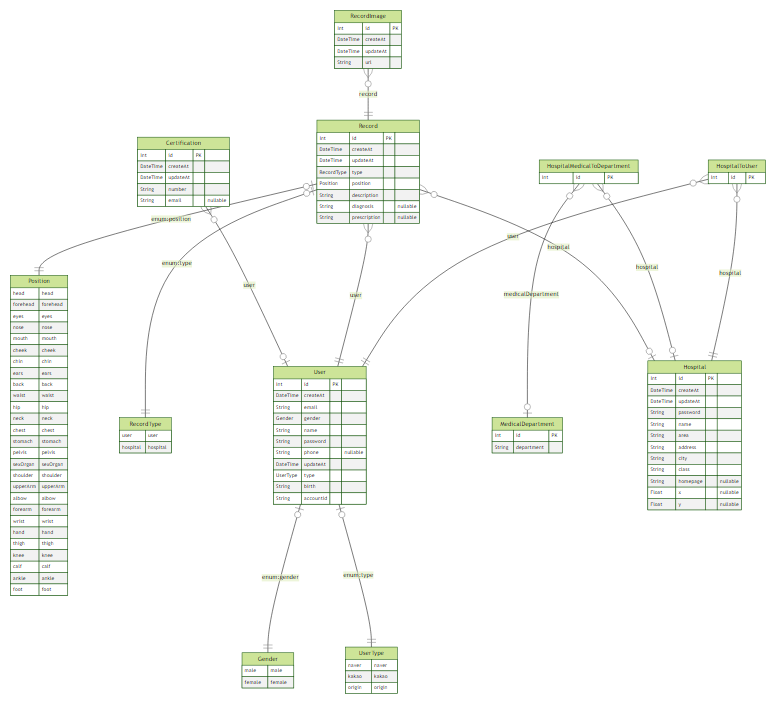
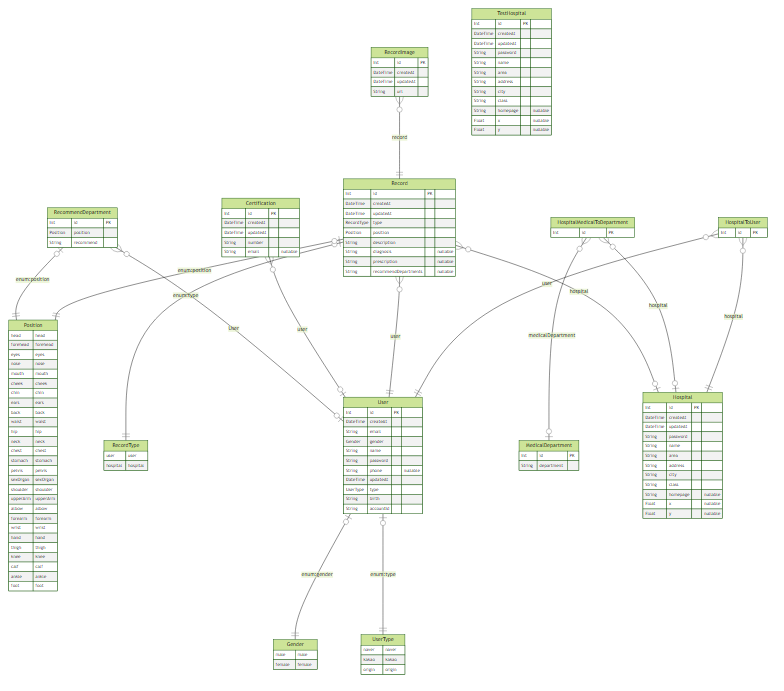
style(register) : 애니메이션 작업 중

diff --git a/next/components/register/SecondPage.tsx b/next/components/register/SecondPage.tsx
@@ -137,27 +137,26 @@ const SecondPage = ({ user, setUser, setPage }: RegisterPageProps) => {
           <FormContents>
             <MessageBox isErrorsMessage={isErrorsMessage} currentComment={currentComment} />
             <LoginInputAreaBox>
-              <AnimatePresence>
-                <Input
-                  name="accountId"
-                  placeholder="toritori2022"
-                  register={register("accountId", {
-                    required: true,
-                    validate: {
-                      checkAccountId: value =>
-                        ACCOUNT_ID_REGEX.test(value) || "아이디는 6자리 이상\n영문 대소문자, 숫자를 입력해주세요",
-                    },
-                    onChange() {
-                      setUser(prev => ({ ...prev!, isNotDuplicate: false }));
-                      setCurrentInputIdx(1);
-                      setValue("password", "");
-                      setValue("passwordConfirm", "");
-                      console.log(errors.accountId);
-                    },
-                  })}
-                  error={errors.accountId}
-                />
-              </AnimatePresence>
+              <Input
+                name="accountId"
+                placeholder="toritori2022"
+                register={register("accountId", {
+                  required: true,
+                  validate: {
+                    checkAccountId: value =>
+                      ACCOUNT_ID_REGEX.test(value) || "아이디는 6자리 이상\n영문 대소문자, 숫자를 입력해주세요",
+                  },
+                  onChange() {
+                    setUser(prev => ({ ...prev!, isNotDuplicate: false }));
+                    setCurrentInputIdx(1);
+                    setValue("password", "");
+                    setValue("passwordConfirm", "");
+                    console.log(errors.accountId);
+                  },
+                })}
+                error={errors.accountId}
+              />
+
               {(!user?.isNotDuplicate || !watch("accountId")) && (
                 <ButtonBox>
                   <RoundButton
@@ -174,52 +173,55 @@ const SecondPage = ({ user, setUser, setPage }: RegisterPageProps) => {
                 </ButtonBox>
               )}
 
-              {currentInputIdx >= 2 && (
-                <Input
-                  name="password"
-                  type="password"
-                  placeholder="●●●●●●"
-                  register={register("password", {
-                    required: true,
-                    validate: {
-                      regexPassword: value =>
-                        PASSWORD_REGEX.test(value) ||
-                        "비밀번호는 6자리 이상\n영문 대소문자, 숫자를 조합해서 입력해주세요",
-                    },
-                    onChange() {
-                      if (watch("password").length < 6) {
-                        setValue("passwordConfirm", "");
-                        setCurrentInputIdx(2);
-                      } else {
-                        setCurrentInputIdx(3);
-                        if (watch("password") !== watch("passwordConfirm") && watch("passwordConfirm")) {
-                          setError("passwordConfirm", {
-                            message: "비밀번호가 일치하지 않아요!\n비밀번호를 다시 확인해주세요",
-                          });
+              <AnimatePresence>
+                {currentInputIdx >= 2 && (
+                  <Input
+                    name="password"
+                    type="password"
+                    placeholder="●●●●●●"
+                    register={register("password", {
+                      required: true,
+                      validate: {
+                        regexPassword: value =>
+                          PASSWORD_REGEX.test(value) ||
+                          "비밀번호는 6자리 이상\n영문 대소문자, 숫자를 조합해서 입력해주세요",
+                      },
+                      onChange() {
+                        if (watch("password").length < 6) {
+                          setValue("passwordConfirm", "");
+                          setCurrentInputIdx(2);
                         } else {
-                          clearErrors(["password", "passwordConfirm"]);
+                          setCurrentInputIdx(3);
+                          if (watch("password") !== watch("passwordConfirm") && watch("passwordConfirm")) {
+                            setError("passwordConfirm", {
+                              message: "비밀번호가 일치하지 않아요!\n비밀번호를 다시 확인해주세요",
+                            });
+                          } else {
+                            clearErrors(["password", "passwordConfirm"]);
+                          }
                         }
-                      }
-                    },
-                  })}
-                  error={errors.password}
-                />
-              )}
-
-              {currentInputIdx >= 3 && !errors.password?.message && (
-                <Input
-                  type="password"
-                  name="passwordConfirm"
-                  placeholder="●●●●●●"
-                  register={register("passwordConfirm", {
-                    required: true,
-                    validate: {
-                      checkPassword,
-                    },
-                  })}
-                  error={errors.passwordConfirm}
-                />
-              )}
+                      },
+                    })}
+                    error={errors.password}
+                  />
+                )}
+              </AnimatePresence>
+              <AnimatePresence>
+                {currentInputIdx >= 3 && !errors.password?.message && (
+                  <Input
+                    type="password"
+                    name="passwordConfirm"
+                    placeholder="●●●●●●"
+                    register={register("passwordConfirm", {
+                      required: true,
+                      validate: {
+                        checkPassword,
+                      },
+                    })}
+                    error={errors.passwordConfirm}
+                  />
+                )}
+              </AnimatePresence>
             </LoginInputAreaBox>
           </FormContents>
           <PrevNextButtonBox>

diff --git a/next/prisma/seed.ts b/next/prisma/seed.ts
@@ -1,11 +1,11 @@
-import hospitalsSample from "../data/new-hospital/hospital_final.json";
+import hospitalsSample from "../../data/new-hospital/hospital_final.json";
 import departmentMatch from "./dd3.json";
 // import DepartmentsSample from "../data/new-hospital/code_final.json";
 // import type { Hospital, MedicalDepartment } from "prisma/prisma-client";
 // import fs from "fs";
 import { PrismaClient } from "@prisma/client";
 // import hospital from "@api/users/hospital";
-import medicalDepartmentData from "../data/hospital/진료과목코드_수정02.json";
+// import medicalDepartmentData from "../../data/hospital/진료과목코드_수정02.json";
 const client = new PrismaClient();
 
 interface Department {
@@ -34,26 +34,26 @@ interface Hospital {
   };
   departmentCodes: string;
 }
-async function ConnectHospitalToDepartment() {
-  const matchDepartment: Match[] = departmentMatch.value;
-  // const matchDepartment = fs.readFileSync("../data/new-hospital/code_final.json");
-  // console.log(matchDepartment);
-  console.log("dfdsfd");
-  const ASDF = (a: Match[]) => {
-    const arr: { hospitalId: number; medicalDepartmentId: number }[] = [];
-    for (let i = 0; i < a.length; i++) {
-      a[i].departmentCodes.forEach(j => {
-        arr.push({ hospitalId: a[i].index + 1, medicalDepartmentId: j });
-      });
-    }
-    return arr;
-  };
-  ASDF(matchDepartment);
-  await client.hospitalMedicalDepartmentConnector.createMany({
-    data: ASDF(matchDepartment),
-  });
-}
-ConnectHospitalToDepartment();
+// async function ConnectHospitalToDepartment() {
+//   const matchDepartment: Match[] = departmentMatch.value;
+//   // const matchDepartment = fs.readFileSync("../data/new-hospital/code_final.json");
+//   // console.log(matchDepartment);
+//   console.log("dfdsfd");
+//   const ASDF = (a: Match[]) => {
+//     const arr: { hospitalId: number; medicalDepartmentId: number }[] = [];
+//     for (let i = 0; i < a.length; i++) {
+//       a[i].departmentCodes.forEach(j => {
+//         arr.push({ hospitalId: a[i].index + 1, medicalDepartmentId: j });
+//       });
+//     }
+//     return arr;
+//   };
+//   ASDF(matchDepartment);
+//   await client.hospitalMedicalDepartmentConnector.createMany({
+//     data: ASDF(matchDepartment),
+//   });
+// }
+// ConnectHospitalToDepartment();
 
 // 병원 데이터 지우기
 // async function Deletehospitals() {
@@ -91,8 +91,8 @@ ConnectHospitalToDepartment();
 // FindMedicalDepartMent();
 
 // async function CreateHospitals2() {
-//   const hospitals: Hospital[] = hospitalsSample.value.slice(60000);
-//   await client.hospital.createMany({
+//   const hospitals: Hospital[] = hospitalsSample.value.slice(0, 1000);
+//   await client.testHospital.createMany({
 //     data: hospitals.map((hospital, index) => ({
 //       address: hospital.address,
 //       area: hospital.area,

diff --git a/next/components/Input.tsx b/next/components/Input.tsx
@@ -47,8 +47,20 @@ export default function Input({
     <InputBox width={width} height={height}>
       <MainInput
         initial={{ y: 30, opacity: 0 }}
-        animate={{ y: 0, opacity: 1 }}
-        exit={{ y: 30, opacity: 0 }}
+        animate={{
+          y: 0,
+          opacity: 1,
+          transition: {
+            duration: 1,
+          },
+        }}
+        exit={{
+          y: 30,
+          opacity: 0,
+          transition: {
+            duration: 1,
+          },
+        }}
         disabled={disabled}
         id={name}
         {...register}
